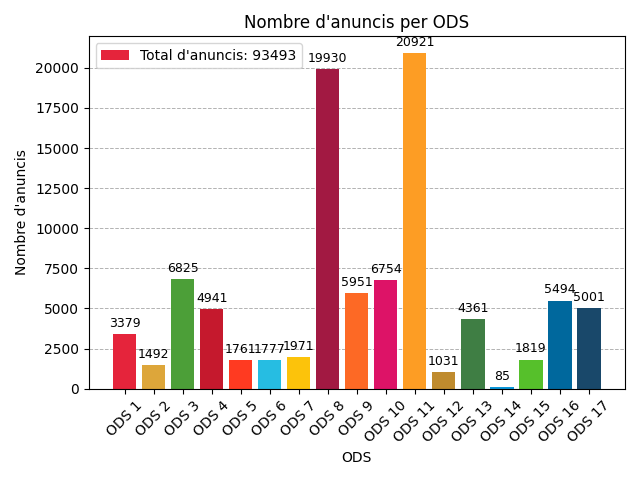
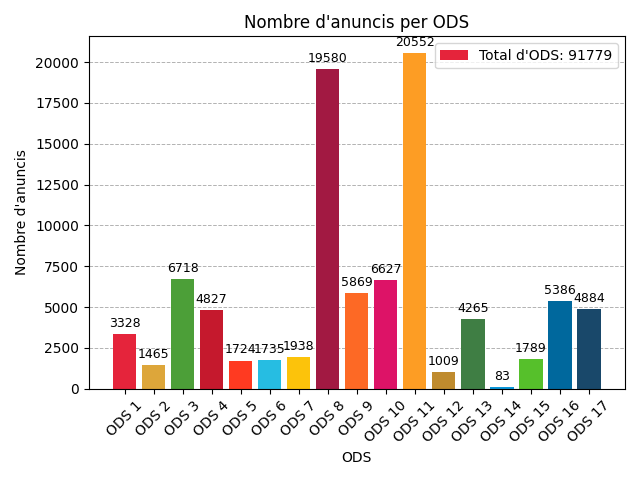
fix ods visualization + refactor

diff --git a/src/data/analysis/analysis.py b/src/data/analysis/analysis.py
@@ -19,7 +19,7 @@ def count_ods(data: pd.DataFrame) -> dict[str, int]:
 
     return ods_count
 
-if __name__ == "__main__":
+def main():
     from src.data.load_data import get_clean_data
 
     data = get_clean_data()
@@ -32,8 +32,11 @@ if __name__ == "__main__":
     count = count_ods(data)
 
     print("\nODS:", count)
-    from src.data.visualize import visualize_ods, save_visualization, visualize_ods_percentage
-    save_visualization(visualize_ods(count), ODS_VISUALIZATION)
-    save_visualization(visualize_ods_percentage(count), ODS_PERCENTAGE_VISUALIZATION)
+
+    if input("visualize? Y/N: ").upper() == "Y":
+        from src.data.analysis.visualize import visualize_ods, save_visualization, visualize_ods_percentage
+        save_visualization(visualize_ods(count), ODS_VISUALIZATION)
+        save_visualization(visualize_ods_percentage(count), ODS_PERCENTAGE_VISUALIZATION)
+
 
     print("\nFINAL")

diff --git a/main.py b/main.py
@@ -16,10 +16,11 @@ def load_clean_data(filepath: Path = DATA_CLEAN):
     return get_clean_data(filepath)
 
 def visualize_ods(data: pd.DataFrame = None):
-    from src.data.analysis import count_ods
-    from src.data.visualize import visualize_ods, save_visualization, visualize_ods_percentage
+    from src.data.analysis.analysis import count_ods, clean_nan
+    from src.data.analysis.visualize import visualize_ods, save_visualization, visualize_ods_percentage
 
     data = data or load_clean_data()
+    data = clean_nan(data)
     ods_count = count_ods(data)
     ods = visualize_ods(ods_count)
     percentage = visualize_ods_percentage(ods_count)
@@ -27,5 +28,8 @@ def visualize_ods(data: pd.DataFrame = None):
     save_visualization(percentage, ODS_PERCENTAGE_VISUALIZATION)
 
 if __name__ == "__main__":
+    # from src.data.analysis.analysis import main
+    # main()
+
     visualize_ods()
     

diff --git a/src/data/analysis/visualize.py b/src/data/analysis/visualize.py
@@ -63,7 +63,7 @@ def visualize_ods(ods_count: dict[str, int]):
         )
 
     # Legend with total
-    ax.legend([f"Total d'anuncis: {total}"])
+    ax.legend([f"Total d'ODS: {total}"])
 
     fig.tight_layout()
     return fig
